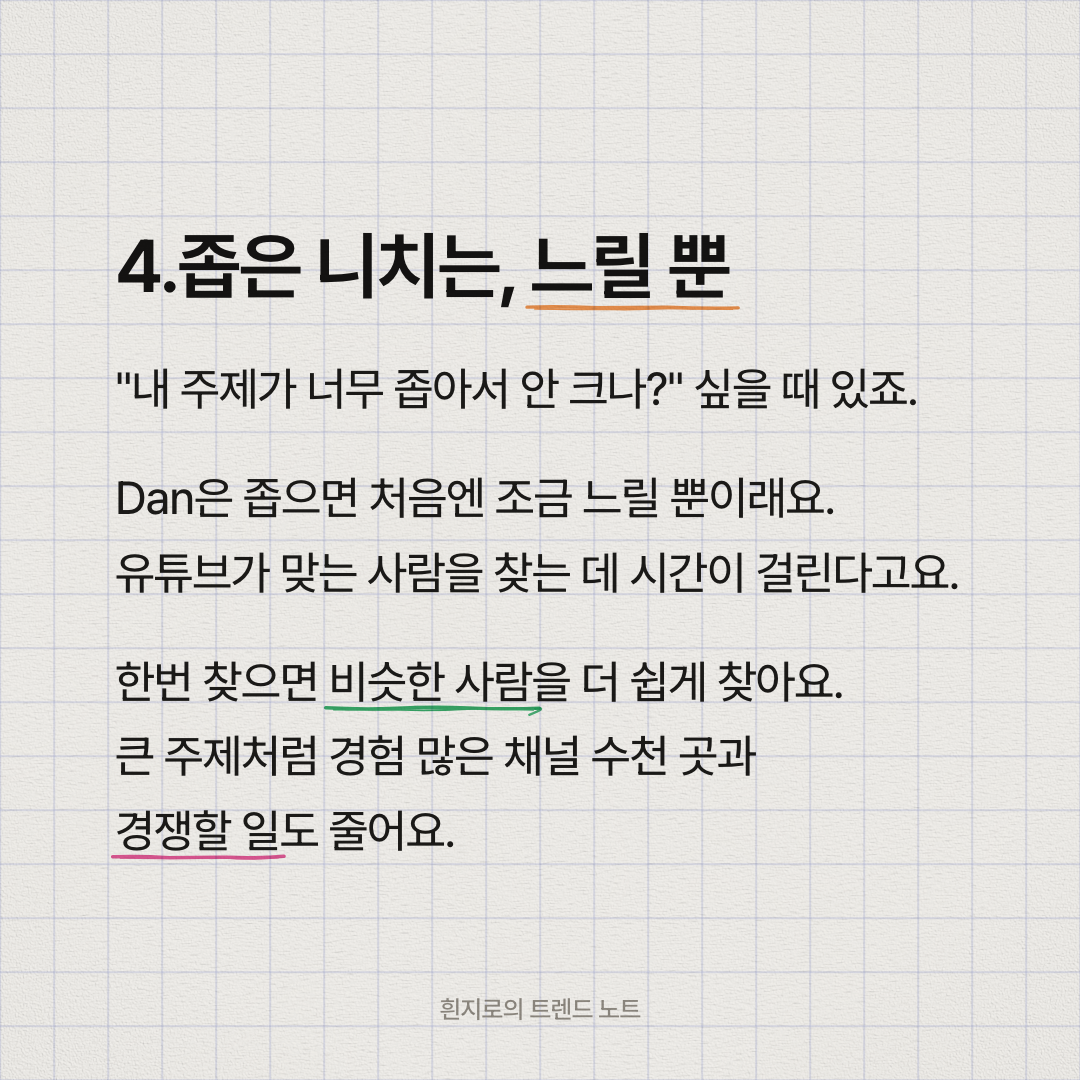
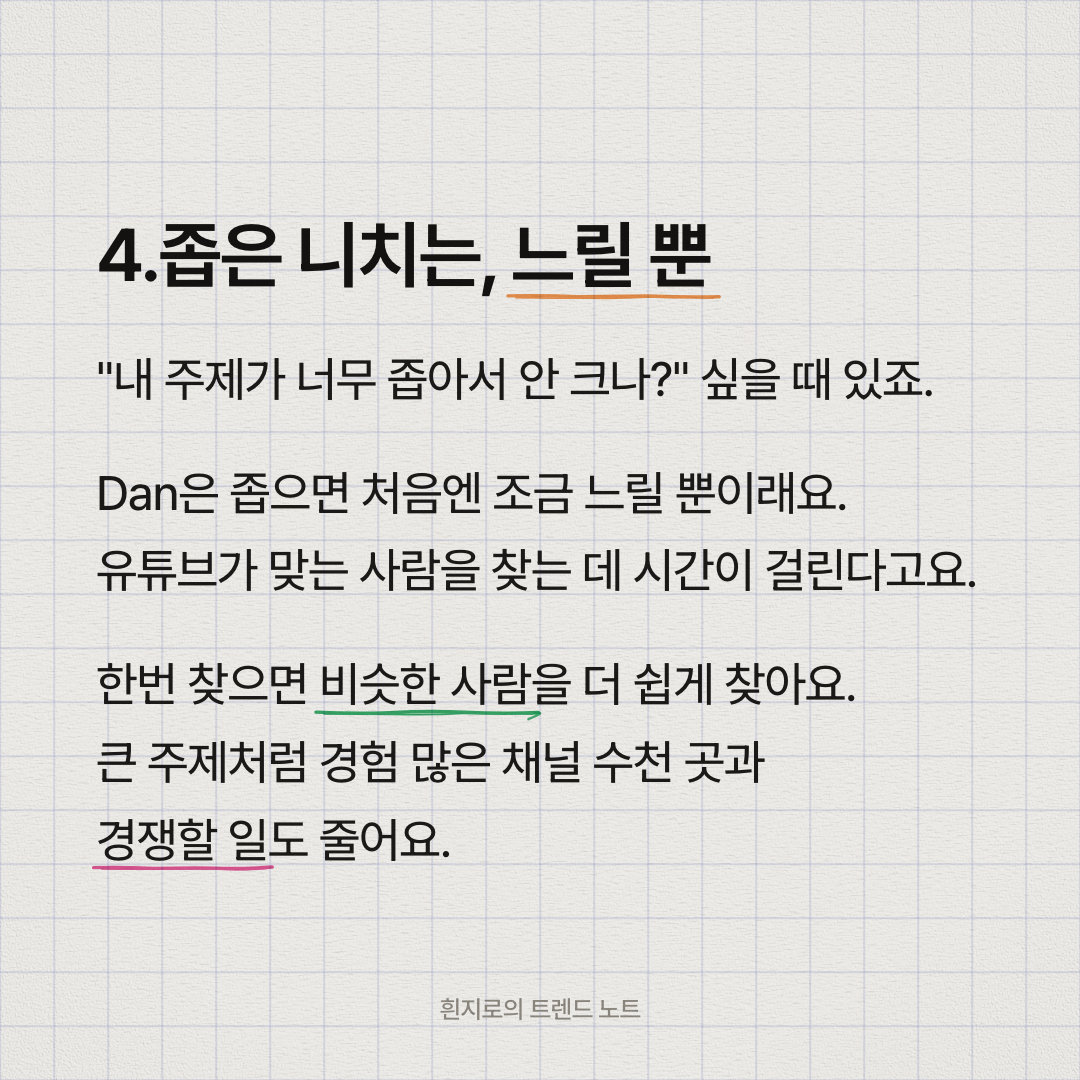
카드뉴스 11/10 본문 48px로 확대 (안 깨짐 확인)

diff --git a/cardnews/dashboard/data.js b/cardnews/dashboard/data.js
@@ -1,4 +1,4 @@
-// build.mjs가 만든 파일 — 직접 고치지 않는다 (2026-11-09T06:37:03.733Z)
+// build.mjs가 만든 파일 — 직접 고치지 않는다 (2026-11-09T06:40:24.412Z)
 window.CARDNEWS = [
  {
   "variants": {},
